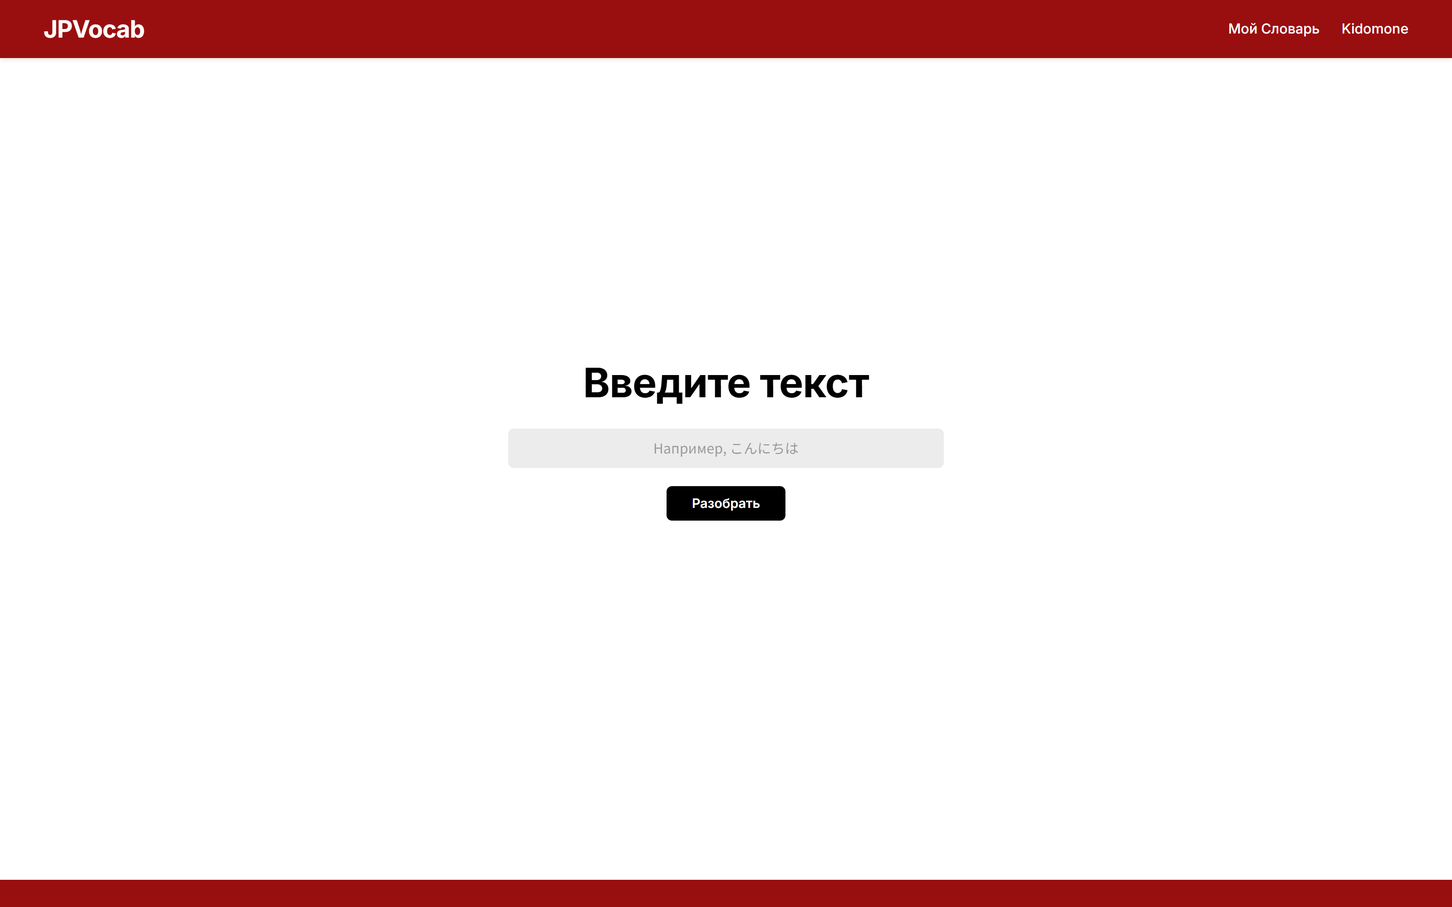
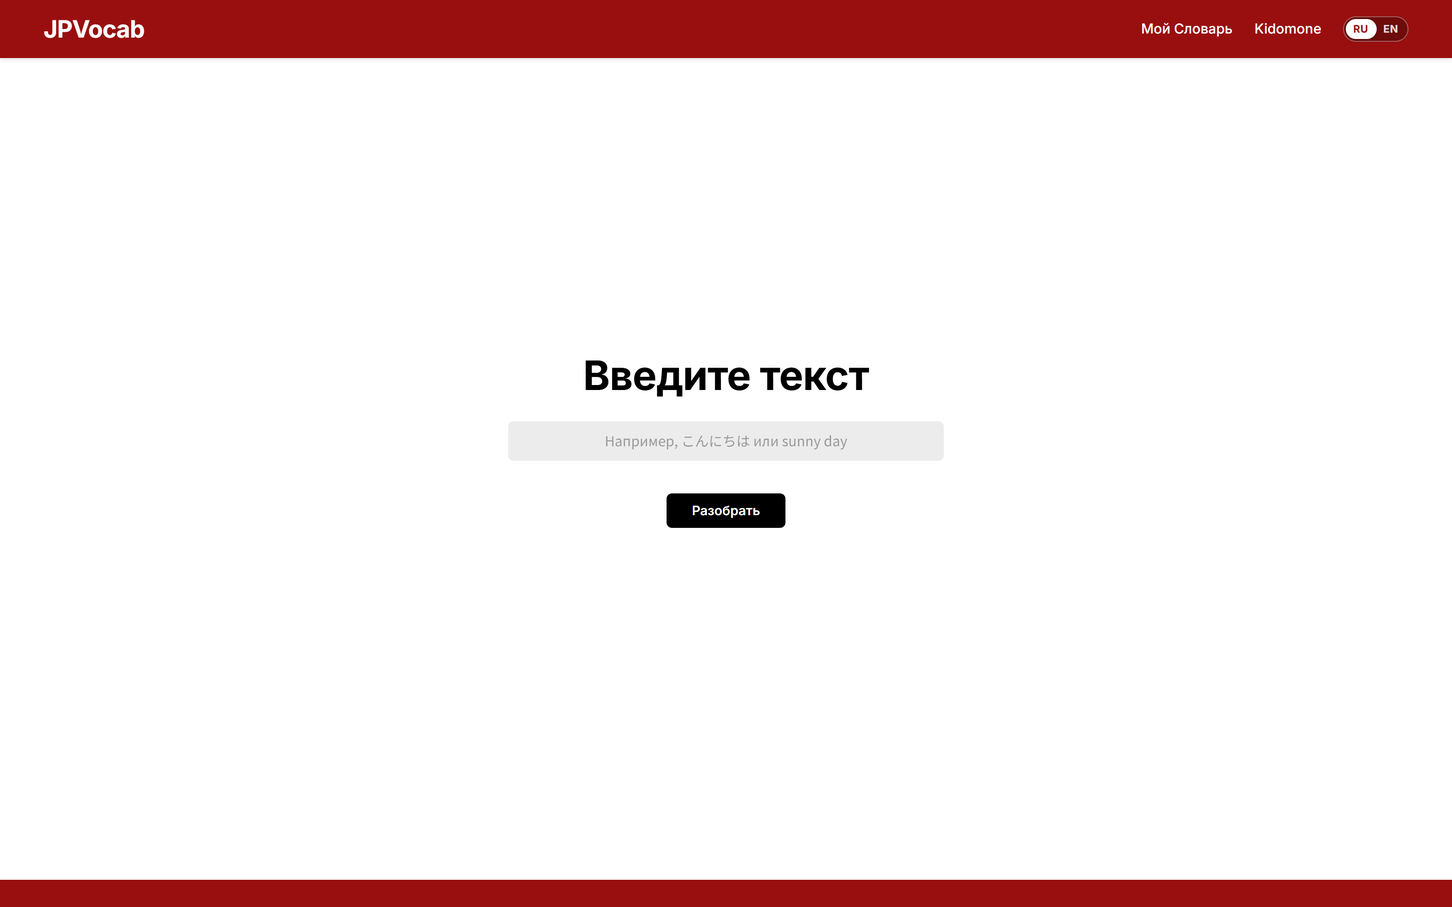
update docs

Changed region(s): [[0.4062, 0.403, 0.5938, 0.496], [0.8125, 0.0, 0.9688, 0.062], [0.4688, 0.527, 0.5312, 0.589]]

diff --git a/README.md b/README.md
@@ -5,32 +5,38 @@
 ## 1. Назначение приложения
 
 **JPVocab** — это веб-приложение для изучающих японский язык, предназначенное для:
-- Сегментации и разбора предложений на японском языке на составные лексические единицы (слова, частицы, связки).
-- Детального изучения иероглифов (кандзи), входящих в состав слов, с их значениями и чтениями.
-- Ведения персонального словаря пользователя с возможностью просмотра слов и добавления собственных заметок.
+- Сегментации и разбора предложений как на японском, так и на английском языке (с сопоставлением целевых слов и кандзи).
+- Детального изучения иероглифов (кандзи), входящих в состав слов, с их значениями и он/кун чтениями.
+- Ведения персонального словаря пользователя с двуязычным поиском (по кандзи, хирагане/катакане, ромадзи и английскому переводу) и добавлением собственных заметок.
+- Мультиязычного взаимодействия: полная поддержка интерфейса на русском и английском языках (`RU | EN`).
 
 ---
 
 ## 2. Основные пользовательские сценарии
 
 1. **Разбор предложения (Текст -> Анализ)**
-   - Пользователь переходит на главную страницу (`/`), вводит текст на японском(или английском) языке в строку ввода и нажимает кнопку **«Разобрать»**.
+   - Пользователь переходит на главную страницу (`/`), вводит текст на японском или английском языке в строку ввода и нажимает кнопку **«Разобрать»**.
    - Приложение перенаправляет пользователя на страницу `/result`.
 
 2. **Интерактивный анализ и изучение структуры предложения**
-   - На странице результатов `/result` пользователь видит предложение, разбитое на кликабельные токены (слова).
-   - Пользователь нажимает на интересующее слово в предложении — боковая карточка разбора мгновенно обновляется, показывая перевод слова, чтение хираганой и составные иероглифы (кандзи).
+   - На странице результатов `/result` пользователь видит предложение, разбитое на интерактивные токены (слова).
+   - При нажатии на слово (японское или английское) оно выделяется фирменной подсветкой, а боковая карточка мгновенно обновляется, показывая перевод слова, чтение и составные иероглифы (кандзи).
 
 3. **Добавление слова в персональный словарь**
-   - В карточке выбранного слова пользователь видит кнопку **«Добавить в словарь»**.
+   - В карточке выбранного слова пользователь нажимает кнопку **«Добавить в словарь»**, получая плавную визуальную обратную связь (`✓ Добавлено в словарь` ➔ `✓ В словаре`).
 
-4. **Ведение словаря и добавление заметок (`notes`)**
+4. **Ведение словаря, поиск и добавление заметок (`notes`)**
    - Пользователь переходит в раздел **«Мой Словарь»** (`/vocab`).
    - В таблице отображаются сохранённые слова, их значения и поле заметок.
-   - Поле **`notes`** является редактируемым: пользователь может кликнуть в ячейку и вписать произвольный комментарий или заметку.
+   - Поле **`notes`** создается пустым по умолчанию и редактируется прямо в таблице.
+   - Доступен **интеллектуальный поиск**: находит слова по японским иероглифам, по чтению каной (с взаимной нормализацией хираганы и катаканы), по транслитерации ромадзи (например, `neko` найдет `猫`) и по английскому смыслу (`cat`).
 
-5. **Авторизация**
-   - Пользователь переходит на экран `/login`, вводит логин и пароль, после чего по нажатию кнопки возвращается на главную страницу.
+5. **Переключение языка интерфейса (RU / EN)**
+   - В шапке приложения доступен анимированный переключатель языка (sliding pill).
+   - Выбранный язык сохраняется в `localStorage` и моментально переводит все элементы интерфейса, заголовки и подсказки.
+
+6. **Авторизация**
+   - Пользователь переходит на экран `/login`, вводит логин и пароль с валидацией формы, после чего возвращается на главную страницу.
 
 ---
 
@@ -38,10 +44,10 @@
 
 | Маршрут | Экран | Назначение |
 | :--- | :--- | :--- |
-| `/` | **Home** (Главная) | Поле ввода текста на японском(или английском) языке и запуск синтаксического разбора. |
+| `/` | **Home** (Главная) | Поле ввода текста на японском или английском языке и запуск синтаксического разбора. |
 | `/login` | **Login** (Авторизация) | Форма входа пользователя на фирменном красном фоне. |
-| `/result` | **Result** (Разбор предложения) | Представление предложения по токенам, общий перевод и карточка слова с разбором кандзи. |
-| `/vocab` | **Vocab** (Мой Словарь) | Табличное представление сохранённых слов с редактируемыми заметками. |
+| `/result` | **Result** (Разбор предложения) | Интерактивные токены слов с подсветкой, перевод предложения и карточка слова с разбором кандзи. |
+| `/vocab` | **Vocab** (Мой Словарь) | Табличное представление сохранённых слов с поисковой строкой и редактируемыми заметками. |
 
 ---
 
@@ -49,18 +55,18 @@
 
 - **UI-библиотека**: [Material-UI (MUI)](https://mui.com/) (`@mui/material`, `@emotion/react`, `@emotion/styled`).
 - **Цветовая палитра**:
-  - Тёмно-красный: `#990F0F` (хедер, карточка слова, фон экрана логина).
-  - Контрастный чёрный: `#000000` / `#1E1E1E` (кнопки действий).
-  - Фоновый серый: `#ECECEC` (поля ввода).
+  - Тёмно-красный: `#990F0F` (хедер, карточка слова, рамка фокуса инпутов, фон экрана логина).
+  - Контрастный чёрный: `#000000` / `#1E1E1E` (кнопки действий, снекбары).
+  - Фоновый серый: `#ECECEC` / `#F3F3F3` (поля ввода, строка поиска).
   - Основной фон: `#FFFFFF` (контент страниц).
 - **Типографика**: шрифты `Inter` для латиницы/кириллицы и `Noto Sans JP` для японских кандзи и каны.
-- **Адаптивность**: гибкая верстка с поддержкой мобильных и десктопных экранов.
+- **Интернационализация (i18n)**: собственная легковесная реализация через React Context без внешних тяжелых зависимостей.
 
 ---
 
 ## 5. Архитектура и структура проекта
 
-Frontend-часть приложения организована по принципам упрощённой архитектуры **Feature-Sliced Design (FSD)**:
+Frontend-часть приложения организована по методологии **Feature-Sliced Design (FSD)**:
 
 ```text
 JPvocab/
@@ -86,57 +92,60 @@ JPvocab/
 │   └── favicon.svg                 # Иконка приложения
 ├── src/
 │   ├── app/                        # Инициализация и глобальная настройка приложения
-│   │   ├── App.tsx                 # React Router и ThemeProvider
+│   │   ├── App.tsx                 # React Router, ThemeProvider и I18nProvider
 │   │   └── index.ts
 │   ├── pages/                      # Страницы приложения (композиция фичей и сущностей)
 │   │   ├── home/                   # Главная страница (/)
 │   │   ├── login/                  # Страница входа (/login)
 │   │   ├── result/                 # Результаты разбора предложения (/result)
-│   │   ├── vocab/                  # Страница словаря (/vocab)
+│   │   ├── vocab/                  # Страница словаря с поиском (/vocab)
 │   │   └── index.ts
 │   ├── features/                   # Пользовательские действия (интерактивные сценарии)
 │   │   ├── analyze-sentence/       # Поле ввода и запуск разбора
 │   │   ├── auth/                   # Форма авторизации пользователя
-│   │   ├── add-to-vocab/           # Действие добавления слова в словарь с обратной связью
+│   │   ├── add-to-vocab/           # Кнопка добавления слова в словарь
 │   │   └── index.ts
 │   ├── entities/                   # Данные предметной области и бизнес-сущности
-│   │   ├── word/                   # Карточка слова, разбор кандзи, типы
-│   │   ├── sentence/               # Список токенов, перевод, парсер
-│   │   ├── vocab/                  # Таблица словаря с редактируемыми заметками, типы
+│   │   ├── word/                   # Карточка слова, разбор кандзи, моковые данные
+│   │   ├── sentence/               # Список токенов, блок перевода, парсер, API клиент
+│   │   ├── vocab/                  # Таблица словаря, строка поиска, утилита поиска vocabSearch
 │   │   └── index.ts
 │   ├── shared/                     # Общие компоненты и утилиты без бизнес-логики
 │   │   ├── config/                 # Конфигурация темы Material UI и константы цветов
-│   │   ├── ui/                     # Базовые компоненты разметки
+│   │   ├── lib/                    # Модуль мультиязычности (i18n Context, переводы)
+│   │   ├── ui/                     # Layout, шапка Header с переключателем языка
 │   │   └── index.ts
 │   ├── index.css                   # Базовые глобальные стили
-│   ├── index.ts                    # Экспорт типов и публичного интерфейса модулей
+│   ├── index.ts                    # Экспорт публичного интерфейса модулей
 │   └── main.tsx                    # Точка входа Vite
 ├── index.html                      # HTML-шаблон с подключением шрифтов
 ├── package.json
-└── tsconfig.json
+├── tsconfig.json
+└── vite.config.ts                  # Конфигурация Vite и reverse-proxy на бэкенд
 ```
 
 ### Назначение слоёв:
 
 1. **`app/` (Настройка приложения)**:
-   - Содержит корневой компонент `App.tsx`, объединяющий `ThemeProvider`, `CssBaseline` и маршрутизацию `BrowserRouter` / `Routes`.
+   - Содержит корневой компонент `App.tsx`, объединяющий `ThemeProvider`, `CssBaseline`, `I18nProvider` и маршрутизацию `BrowserRouter` / `Routes`.
 
 2. **`pages/` (Страницы)**:
-   - Экраны `HomePage`, `LoginPage`, `ResultPage`, `VocabPage`. Каждая страница выступает тонким композиционным слоем, собирающим виджеты, пользовательские фичи и данные сущностей.
+   - Экраны `HomePage`, `LoginPage`, `ResultPage`, `VocabPage`. Каждая страница собирает виджеты, пользовательские фичи и данные сущностей под конкретный URL.
 
 3. **`features/` (Пользовательские действия)**:
-   - `analyze-sentence`: форма ввода поисковой строки и отправки запроса на разбор.
+   - `analyze-sentence`: форма ввода текста с валидацией длины/пустоты и анимацией ошибок.
    - `auth`: форма логина с полями ввода имени пользователя и пароля.
-   - `add-to-vocab`: кнопка добавления изучаемого слова в личный словарь с анимацией успешного сохранения.
+   - `add-to-vocab`: кнопка добавления изучаемого слова в личный словарь.
 
 4. **`entities/` (Сущности предметной области)**:
-   - `word`: модель слова, моковые словарные данные и UI-компоненты карточки.
-   - `sentence`: разбивка предложения на токены, модуль синтаксического разбора, кликабельные токены и блок перевода.
-   - `vocab`: модель записи словаря, начальные данные и интерактивная таблица с редактированием поля `notes`.
+   - `word`: модель слова, разбор кандзи на компоненты (`KanjiBreakdown`), база готовых слов.
+   - `sentence`: клиент API (`analyzeApi`), офлайн-парсер (`parseSentence`), кликабельные токены с подсветкой (`SentenceTokens`), блок перевода (`SentenceTranslation`).
+   - `vocab`: модель записи словаря, хранилище `localStorage` (`storage.ts`), таблица (`VocabTable`), строка поиска (`VocabSearchBar`) и движок двуязычного поиска (`vocabSearch.ts`).
 
 5. **`shared/` (Общие компоненты и конфигурация)**:
-   - `ui`: каркас приложения, общая шапка с навигацией.
-   - `config`: цвета и тема MUI.
+   - `lib/i18n`: контекст локализации, словари переводов (RU / EN), хук `useTranslation`.
+   - `ui`: каркас приложения (`Layout`), общая шапка (`Header`) с анимированным переключателем языка.
+   - `config`: палитра цветов и тема MUI.
 
 ---
 
@@ -164,7 +173,12 @@ JPvocab/
    ```
    Приложение откроется по адресу: [http://localhost:5173/](http://localhost:5173/)
 
-4. Проверка сборки (typecheck + production build):
+4. Проверка линтером:
+   ```bash
+   npm run lint
+   ```
+
+5. Проверка сборки (typecheck + production build):
    ```bash
    npm run build
    ```
